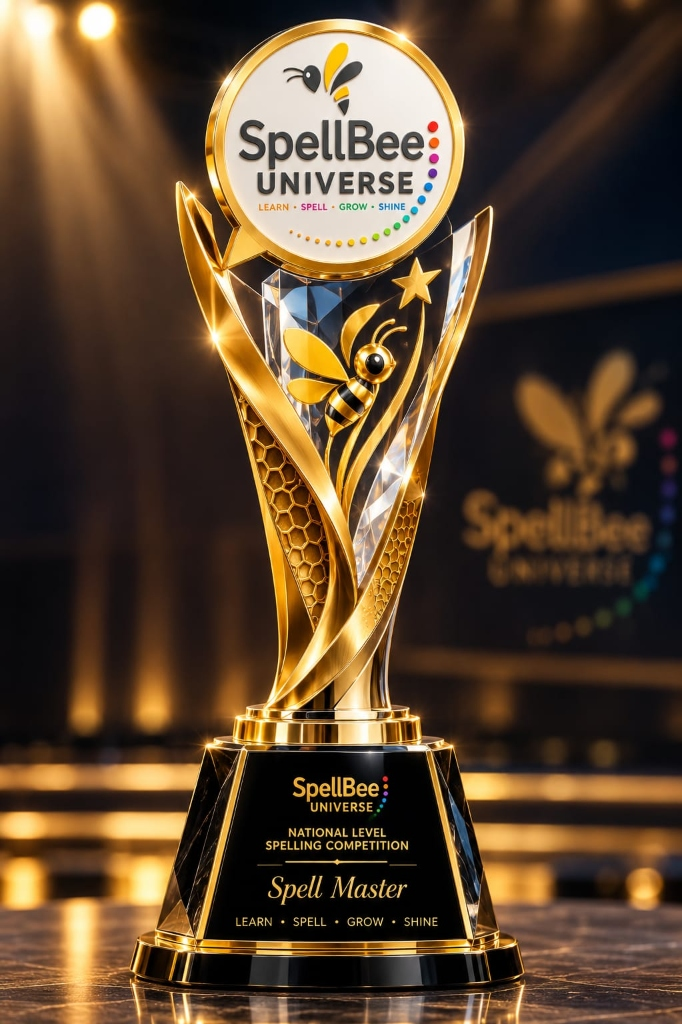
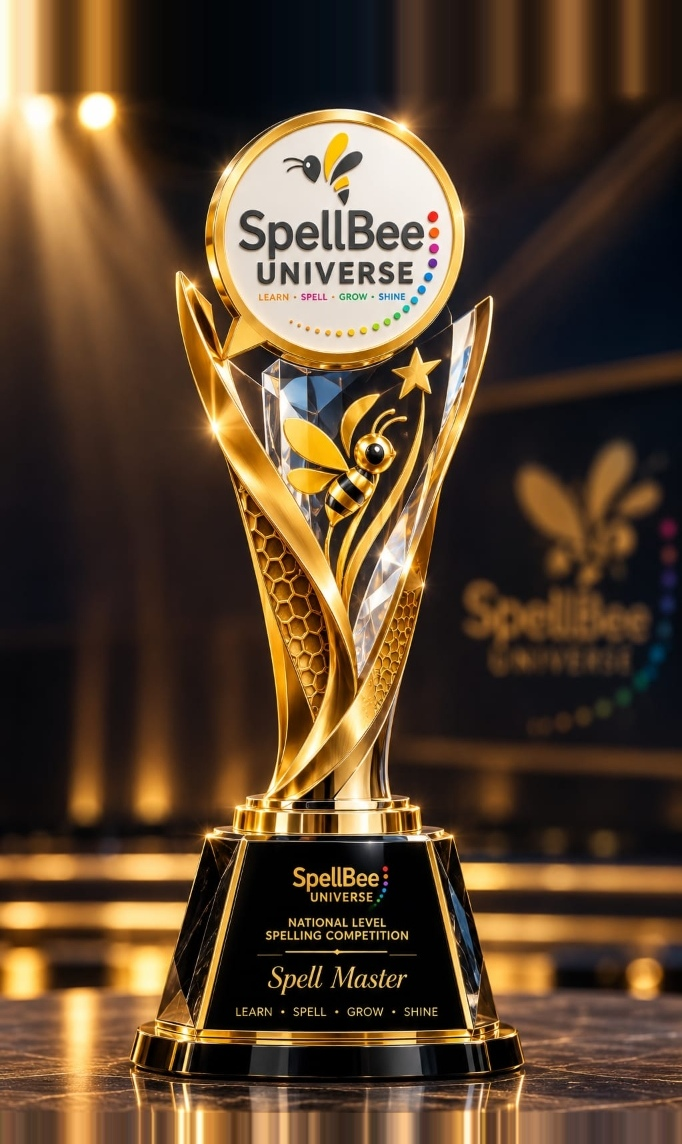
fix(ui): improve paragraph typography alignment and enlarge grand finale trophy box

diff --git a/src/app/globals.css b/src/app/globals.css
@@ -124,3 +124,213 @@ html {
   animation: shineSweep 3s infinite;
 }
 
+/* ==========================================================================
+   Typography Consistency, Line Alignment & Justification Rules
+   ========================================================================== */
+
+/* Universal text spacing and wrapping normalization */
+*, *::before, *::after {
+  word-spacing: normal;
+  letter-spacing: normal;
+}
+
+/* Base typography defaults for consistent line alignment and natural wrapping */
+p {
+  text-align: left;
+  text-align-last: left;
+  text-indent: 0;
+  margin-top: 0;
+  word-spacing: normal;
+  letter-spacing: normal;
+  text-wrap: pretty;
+  overflow-wrap: break-word;
+  hyphens: manual;
+}
+
+/* Ensure headings, buttons, links, inputs, and labels maintain natural alignment */
+h1, h2, h3, h4, h5, h6,
+button,
+button p,
+a,
+a p,
+nav,
+nav p,
+label,
+input,
+textarea,
+select,
+[role="button"],
+.badge,
+.badge p,
+.pill,
+.pill p,
+.no-justify,
+.no-justify p {
+  text-align: inherit;
+  text-align-last: auto;
+  text-indent: 0;
+  word-spacing: normal;
+  letter-spacing: normal;
+  hyphens: manual;
+}
+
+/* ==========================================================================
+   Suitable Paragraph Justification (Clean Rectangular Alignment)
+   ========================================================================== */
+
+/* Applied to multi-line descriptive text, editorial blocks, and long-form prose */
+.text-justify,
+.paragraph-justify,
+p.paragraph-justify,
+p.text-justify,
+.prose p,
+.editorial-text p,
+.story-text p {
+  text-align: justify !important;
+  text-align-last: left !important;
+  text-justify: inter-word !important;
+  word-spacing: normal;
+  letter-spacing: normal;
+  hyphens: auto;
+  -webkit-hyphens: auto;
+  text-wrap: pretty;
+  overflow-wrap: break-word;
+}
+
+/* Prevent awkward word stretching on narrow mobile viewports (< 540px) */
+@media (max-width: 539px) {
+  .text-justify,
+  .paragraph-justify,
+  p.paragraph-justify,
+  .prose p,
+  .editorial-text p,
+  .story-text p {
+    text-align: left;
+    text-align-last: left;
+    hyphens: manual;
+  }
+}
+
+/* ==========================================================================
+   Explicit Alignment Preservations & Overrides
+   ========================================================================== */
+
+/* Left Alignment - Guarantees consistent left boundary with zero indentation */
+.text-left,
+.text-left p,
+p.text-left {
+  text-align: left !important;
+  text-align-last: left !important;
+  text-indent: 0 !important;
+  hyphens: manual !important;
+}
+
+/* Center Alignment - Preserves intentional center-alignment with balanced wrapping */
+.text-center,
+.text-center p,
+p.text-center {
+  text-align: center !important;
+  text-align-last: center !important;
+  text-indent: 0 !important;
+  hyphens: manual !important;
+  text-wrap: balance !important;
+}
+
+/* Right Alignment */
+.text-right,
+.text-right p,
+p.text-right {
+  text-align: right !important;
+  text-align-last: right !important;
+  text-indent: 0 !important;
+  hyphens: manual !important;
+}
+
+/* Responsive alignment classes */
+@media (min-width: 640px) {
+  .sm\:text-left, .sm\:text-left p, p.sm\:text-left {
+    text-align: left !important;
+    text-align-last: left !important;
+    text-indent: 0 !important;
+  }
+  .sm\:text-center, .sm\:text-center p, p.sm\:text-center {
+    text-align: center !important;
+    text-align-last: center !important;
+    text-wrap: balance !important;
+  }
+  .sm\:text-right, .sm\:text-right p, p.sm\:text-right {
+    text-align: right !important;
+    text-align-last: right !important;
+  }
+}
+
+@media (min-width: 768px) {
+  .md\:text-left, .md\:text-left p, p.md\:text-left {
+    text-align: left !important;
+    text-align-last: left !important;
+    text-indent: 0 !important;
+  }
+  .md\:text-center, .md\:text-center p, p.md\:text-center {
+    text-align: center !important;
+    text-align-last: center !important;
+    text-wrap: balance !important;
+  }
+  .md\:text-right, .md\:text-right p, p.md\:text-right {
+    text-align: right !important;
+    text-align-last: right !important;
+  }
+}
+
+@media (min-width: 1024px) {
+  .lg\:text-left, .lg\:text-left p, p.lg\:text-left {
+    text-align: left !important;
+    text-align-last: left !important;
+    text-indent: 0 !important;
+  }
+  .lg\:text-center, .lg\:text-center p, p.lg\:text-center {
+    text-align: center !important;
+    text-align-last: center !important;
+    text-wrap: balance !important;
+  }
+  .lg\:text-right, .lg\:text-right p, p.lg\:text-right {
+    text-align: right !important;
+    text-align-last: right !important;
+  }
+}
+
+@media (min-width: 1280px) {
+  .xl\:text-left, .xl\:text-left p, p.xl\:text-left {
+    text-align: left !important;
+    text-align-last: left !important;
+    text-indent: 0 !important;
+  }
+  .xl\:text-center, .xl\:text-center p, p.xl\:text-center {
+    text-align: center !important;
+    text-align-last: center !important;
+    text-wrap: balance !important;
+  }
+  .xl\:text-right, .xl\:text-right p, p.xl\:text-right {
+    text-align: right !important;
+    text-align-last: right !important;
+  }
+}
+
+/* Prevent awkward word-spacing on single-line items, truncated items, or short labels */
+.whitespace-nowrap,
+.truncate,
+p.truncate,
+p.whitespace-nowrap {
+  text-align: left;
+  text-align-last: left;
+  hyphens: manual;
+  word-spacing: normal;
+}
+
+/* Card, list, and flex text protections against awkward justification */
+.card p,
+.grid p,
+li p,
+[class*="rounded-"] > p {
+  text-indent: 0;
+}
+

diff --git a/src/components/Team.jsx b/src/components/Team.jsx
@@ -25,7 +25,7 @@ const Team = () => {
                    <h3 className="text-xl sm:text-2xl font-bold text-slate-950 group-hover:text-amber-600 transition-colors">Saravana Kumar</h3>
                    <span className="inline-block text-xs font-bold text-blue-700 bg-blue-50 border border-blue-200/60 px-2.5 py-0.5 rounded-full uppercase tracking-wider mx-auto sm:mx-0 w-fit">CEO</span>
                  </div>
-                 <p className="text-slate-900 font-normal text-sm sm:text-[15px] leading-relaxed text-left">
+                 <p className="text-slate-900 font-normal text-sm sm:text-[15px] leading-relaxed text-left paragraph-justify">
                    With 23 years of experience in media, broadcasting, filmmaking and events, Saravana brings creativity, leadership and a passion for education to SpellBee Universe.
                  </p>
                </div>
@@ -42,7 +42,7 @@ const Team = () => {
                    <h3 className="text-xl sm:text-2xl font-bold text-slate-950 group-hover:text-amber-600 transition-colors">Vani Gowda</h3>
                    <span className="inline-block text-xs font-bold text-blue-700 bg-blue-50 border border-blue-200/60 px-2.5 py-0.5 rounded-full uppercase tracking-wider mx-auto sm:mx-0 w-fit">CFO</span>
                  </div>
-                 <p className="text-slate-900 font-normal text-sm sm:text-[15px] leading-relaxed text-left">
+                 <p className="text-slate-900 font-normal text-sm sm:text-[15px] leading-relaxed text-left paragraph-justify">
                    An entrepreneur, social worker, writer, sports enthusiast and education advocate, Vani brings a deep commitment to creating meaningful opportunities for young learners.
                  </p>
                </div>
@@ -71,7 +71,7 @@ const Team = () => {
                   </div>
                 </div>
                 <div className="pt-2.5 border-t border-slate-100">
-                  <p className="text-slate-900 text-xs sm:text-[13px] leading-relaxed font-normal text-left">
+                  <p className="text-slate-900 text-xs sm:text-[13px] leading-relaxed font-normal text-left paragraph-justify">
                     As the Founder Trustee and Executive Director of the Bangalore Schools Sports Foundation (BSSF), Elvis has been at the forefront of pioneering Sports-for-Development initiatives that have positively impacted thousands of children and young people across India. Under his leadership, BSSF has evolved into a nationally recognized organization dedicated to empowering vulnerable, marginalized, and underserved communities through sports, education, leadership, and humanitarian action.
                   </p>
                 </div>
@@ -92,7 +92,7 @@ const Team = () => {
                   </div>
                 </div>
                 <div className="pt-2.5 border-t border-slate-100">
-                  <p className="text-slate-900 text-xs sm:text-[13px] leading-relaxed font-normal text-left">
+                  <p className="text-slate-900 text-xs sm:text-[13px] leading-relaxed font-normal text-left paragraph-justify">
                     Educated in Physics, Sociology, Journalism, Information Technology, Television production, working for overseas TV channels director and script-writer for many decades, Founder/President of the Association of Left-handers, India.
                   </p>
                 </div>
@@ -113,7 +113,7 @@ const Team = () => {
                   </div>
                 </div>
                 <div className="pt-2.5 border-t border-slate-100">
-                  <p className="text-slate-900 text-xs sm:text-[13px] leading-relaxed font-normal text-left">
+                  <p className="text-slate-900 text-xs sm:text-[13px] leading-relaxed font-normal text-left paragraph-justify">
                     Possesses a diverse skill set encompassing architecture, education, and politics. He has proficiency in several languages and a keen interest in social welfare. Mr Gowda is deeply passionate about creating a sustainable and inclusive India through skill development and tourism initiatives and contributing to the betterment of society.
                   </p>
                 </div>
@@ -131,7 +131,7 @@ const Team = () => {
           <div className="grid grid-cols-2 md:grid-cols-3 lg:grid-cols-5 gap-3.5 sm:gap-4 items-stretch">
             <div className="bg-slate-50/80 hover:bg-white rounded-xl p-4 sm:p-5 border border-slate-200/80 hover:border-amber-300 hover:shadow-lg hover:-translate-y-1.5 transition-all duration-300 flex flex-col items-center justify-center text-center group cursor-pointer min-h-[120px] h-full">
               <Code className="w-7 h-7 text-blue-600 group-hover:scale-120 group-hover:rotate-12 transition-all duration-300 mb-2.5" />
-              <p className="text-xs sm:text-sm font-bold text-slate-950 group-hover:text-blue-700 transition-colors leading-tight">Technology &<br/>Development</p>
+              <p className="text-xs sm:text-sm font-bold text-slate-950 group-hover:text-blue-700 transition-colors leading-tight">Technology &amp; Development</p>
             </div>
             <div className="bg-slate-50/80 hover:bg-white rounded-xl p-4 sm:p-5 border border-slate-200/80 hover:border-purple-300 hover:shadow-lg hover:-translate-y-1.5 transition-all duration-300 flex flex-col items-center justify-center text-center group cursor-pointer min-h-[120px] h-full">
               <CalendarDays className="w-7 h-7 text-purple-600 group-hover:scale-120 group-hover:rotate-12 transition-all duration-300 mb-2.5" />

diff --git a/src/components/CompetitionStages.jsx b/src/components/CompetitionStages.jsx
@@ -121,25 +121,25 @@ const CompetitionStages = () => {
                 </div>
 
                 {/* Center Trophy Visual */}
-                <div className="lg:col-span-4 flex flex-col justify-center items-center h-full min-h-[240px] relative select-none py-1">
+                <div className="lg:col-span-4 flex flex-col justify-center items-center h-full min-h-[320px] lg:min-h-[430px] relative select-none py-2">
                   <div className="relative group/trophy">
                     {/* Golden ambient aura */}
-                    <div className="absolute -inset-2 bg-gradient-to-tr from-amber-400 via-yellow-300 to-amber-500 rounded-3xl blur-xl opacity-50 group-hover/trophy:opacity-90 transition-opacity duration-500 animate-pulse-soft"></div>
+                    <div className="absolute -inset-3 bg-gradient-to-tr from-amber-400 via-yellow-300 to-amber-500 rounded-[2.5rem] blur-2xl opacity-60 group-hover/trophy:opacity-95 transition-opacity duration-500 animate-pulse-soft"></div>
 
-                    {/* Frame Container - Portrait to fit full trophy */}
-                    <div className="relative w-44 sm:w-48 md:w-52 h-56 sm:h-64 md:h-68 rounded-2xl sm:rounded-3xl overflow-hidden border-2 border-amber-300/90 shadow-2xl bg-gradient-to-b from-[#0e1744] via-[#070e2f] to-[#030617]">
+                    {/* Frame Container - Portrait enlarged to fit full trophy with no clipping */}
+                    <div className="relative w-56 sm:w-64 md:w-72 lg:w-80 h-76 sm:h-88 md:h-[400px] lg:h-[430px] rounded-3xl sm:rounded-[2rem] overflow-hidden border-2 sm:border-3 border-amber-300/90 shadow-2xl bg-gradient-to-b from-[#0e1744] via-[#070e2f] to-[#030617]">
                       <img 
                         src="/images/spell-master-trophy.jpg" 
                         alt="SpellBee Universe Official Spell Master Trophy"
-                        className="w-full h-full object-cover object-center group-hover/trophy:scale-105 transition-transform duration-500"
+                        className="w-full h-full object-cover object-top group-hover/trophy:scale-105 transition-transform duration-500"
                       />
                       {/* Subtle lighting shine effect */}
-                      <div className="absolute inset-0 bg-gradient-to-t from-[#071330]/60 via-transparent to-white/10 pointer-events-none"></div>
+                      <div className="absolute inset-0 bg-gradient-to-t from-[#071330]/50 via-transparent to-white/10 pointer-events-none"></div>
                     </div>
 
                     {/* Floating Trophy Badge Pill */}
-                    <div className="absolute -bottom-3 left-1/2 -translate-x-1/2 bg-gradient-to-r from-amber-500 via-yellow-400 to-amber-500 text-slate-950 font-black text-[10px] sm:text-xs px-3.5 py-1 rounded-full shadow-xl border-2 border-white flex items-center gap-1.5 whitespace-nowrap tracking-wide">
-                      <Trophy className="w-3.5 h-3.5 text-slate-950 fill-slate-950" />
+                    <div className="absolute -bottom-3.5 left-1/2 -translate-x-1/2 bg-gradient-to-r from-amber-500 via-yellow-400 to-amber-500 text-slate-950 font-black text-xs sm:text-[13px] px-4 py-1.5 rounded-full shadow-2xl border-2 border-white flex items-center gap-2 whitespace-nowrap tracking-wide z-20">
+                      <Trophy className="w-4 h-4 text-slate-950 fill-slate-950" />
                       <span>Official Spell Master Trophy</span>
                     </div>
                   </div>

diff --git a/src/components/FAQAccordionSection.jsx b/src/components/FAQAccordionSection.jsx
@@ -361,8 +361,40 @@ const FAQAccordionSection = ({ searchQuery = '', onClearSearch, selectedCategory
                           </button>
 
                           {isOpen && (
-                            <div className="px-3 pb-3 sm:px-3.5 sm:pb-3.5 pt-1 border-t border-slate-200/50 text-xs sm:text-sm text-slate-600 leading-relaxed font-medium whitespace-pre-line animate-fadeIn">
-                              <div>{item.a}</div>
+                            <div className="px-3 pb-3 sm:px-3.5 sm:pb-3.5 pt-2 border-t border-slate-200/50 text-xs sm:text-sm text-slate-600 leading-relaxed font-medium animate-fadeIn">
+                              {item.a.includes('\n•') || item.a.startsWith('•') ? (
+                                <div className="space-y-2">
+                                  {item.a.split('\n\n').map((paragraph, pIdx) => {
+                                    if (paragraph.includes('•')) {
+                                      return (
+                                        <div key={pIdx} className="space-y-1.5 my-1.5">
+                                          {paragraph.split('\n').map((line, lIdx) => {
+                                            const trimmed = line.trim();
+                                            if (trimmed.startsWith('•')) {
+                                              return (
+                                                <div key={lIdx} className="flex items-start gap-2.5 text-left">
+                                                  <span className="text-amber-500 font-bold shrink-0 select-none mt-0.5">•</span>
+                                                  <span className="flex-1 leading-relaxed">{trimmed.replace(/^•\s*/, '')}</span>
+                                                </div>
+                                              );
+                                            }
+                                            return trimmed ? <p key={lIdx} className="text-left leading-relaxed">{trimmed}</p> : null;
+                                          })}
+                                        </div>
+                                      );
+                                    }
+                                    return <p key={pIdx} className="text-left leading-relaxed">{paragraph}</p>;
+                                  })}
+                                </div>
+                              ) : item.a.includes('\n\n') ? (
+                                <div className="space-y-2.5 text-left">
+                                  {item.a.split('\n\n').map((paragraph, pIdx) => (
+                                    <p key={pIdx} className="leading-relaxed">{paragraph}</p>
+                                  ))}
+                                </div>
+                              ) : (
+                                <p className="text-left leading-relaxed">{item.a}</p>
+                              )}
 
                               {/* Micro-interaction: Helpful feedback */}
                               <div className="mt-3 pt-2.5 border-t border-slate-100 flex items-center justify-between text-[11px] text-slate-400">

diff --git a/src/components/BringToSchool.jsx b/src/components/BringToSchool.jsx
@@ -63,7 +63,7 @@ const BringToSchool = () => {
           <div className="w-full xl:w-auto flex flex-col items-center xl:items-end justify-center gap-6 mt-6 xl:mt-0 pl-0 xl:pl-4">
             <div className="relative group text-center xl:text-right select-none animate-float-slow">
               <span className="text-red-500 text-xl md:text-2xl font-bold -rotate-6 block tracking-tight group-hover:scale-105 transition-transform" style={{fontFamily: "'Comic Sans MS', cursive, sans-serif"}}>Stronger Schools</span>
-              <span className="text-[#1a237e] text-xl md:text-2xl font-bold -rotate-6 block ml-4 xl:ml-0 tracking-tight group-hover:scale-105 transition-transform" style={{fontFamily: "'Comic Sans MS', cursive, sans-serif"}}>Brighter Futures!</span>
+              <span className="text-[#1a237e] text-xl md:text-2xl font-bold -rotate-6 block tracking-tight group-hover:scale-105 transition-transform" style={{fontFamily: "'Comic Sans MS', cursive, sans-serif"}}>Brighter Futures!</span>
               <Bug className="absolute -right-5 sm:-right-6 md:-right-10 -top-2 w-7 h-7 sm:w-8 sm:h-8 text-amber-800 rotate-45 animate-wiggle hover:rotate-90 transition-transform cursor-pointer" />
             </div>
 

diff --git a/src/components/AboutHero.jsx b/src/components/AboutHero.jsx
@@ -18,7 +18,10 @@ const AboutHero = () => {
             <h1 className="text-3xl sm:text-4xl md:text-5xl font-black text-[#1a237e] leading-[1.15] mb-3 sm:mb-4 tracking-tight">
               Inspiring Young Minds,<br className="hidden sm:inline" /> One Word at a Time.
             </h1>
-            <p className="text-[#3949ab] text-sm sm:text-base md:text-lg font-medium leading-relaxed max-w-xl mx-auto lg:mx-0">
+            <p 
+              className="text-[#3949ab] text-sm sm:text-base md:text-lg font-medium leading-relaxed max-w-xl mx-auto lg:mx-0 text-justify paragraph-justify"
+              style={{ textAlign: 'justify', textAlignLast: 'left' }}
+            >
               SpellBee Universe creates opportunities for young learners to develop spelling, vocabulary, pronunciation and confidence through an engaging competitive learning experience.
             </p>
           </div>

diff --git a/src/components/OurStory.jsx b/src/components/OurStory.jsx
@@ -21,7 +21,7 @@ const OurStory = () => {
               </div>
             </div>
 
-            <div className="space-y-3.5 text-slate-600 font-medium leading-relaxed text-sm sm:text-base text-left">
+            <div className="space-y-3.5 text-slate-600 font-medium leading-relaxed text-sm sm:text-base paragraph-justify">
               <p>
                 SpellBee Universe was created with a simple idea: learning language can be exciting, challenging and rewarding.
               </p>
